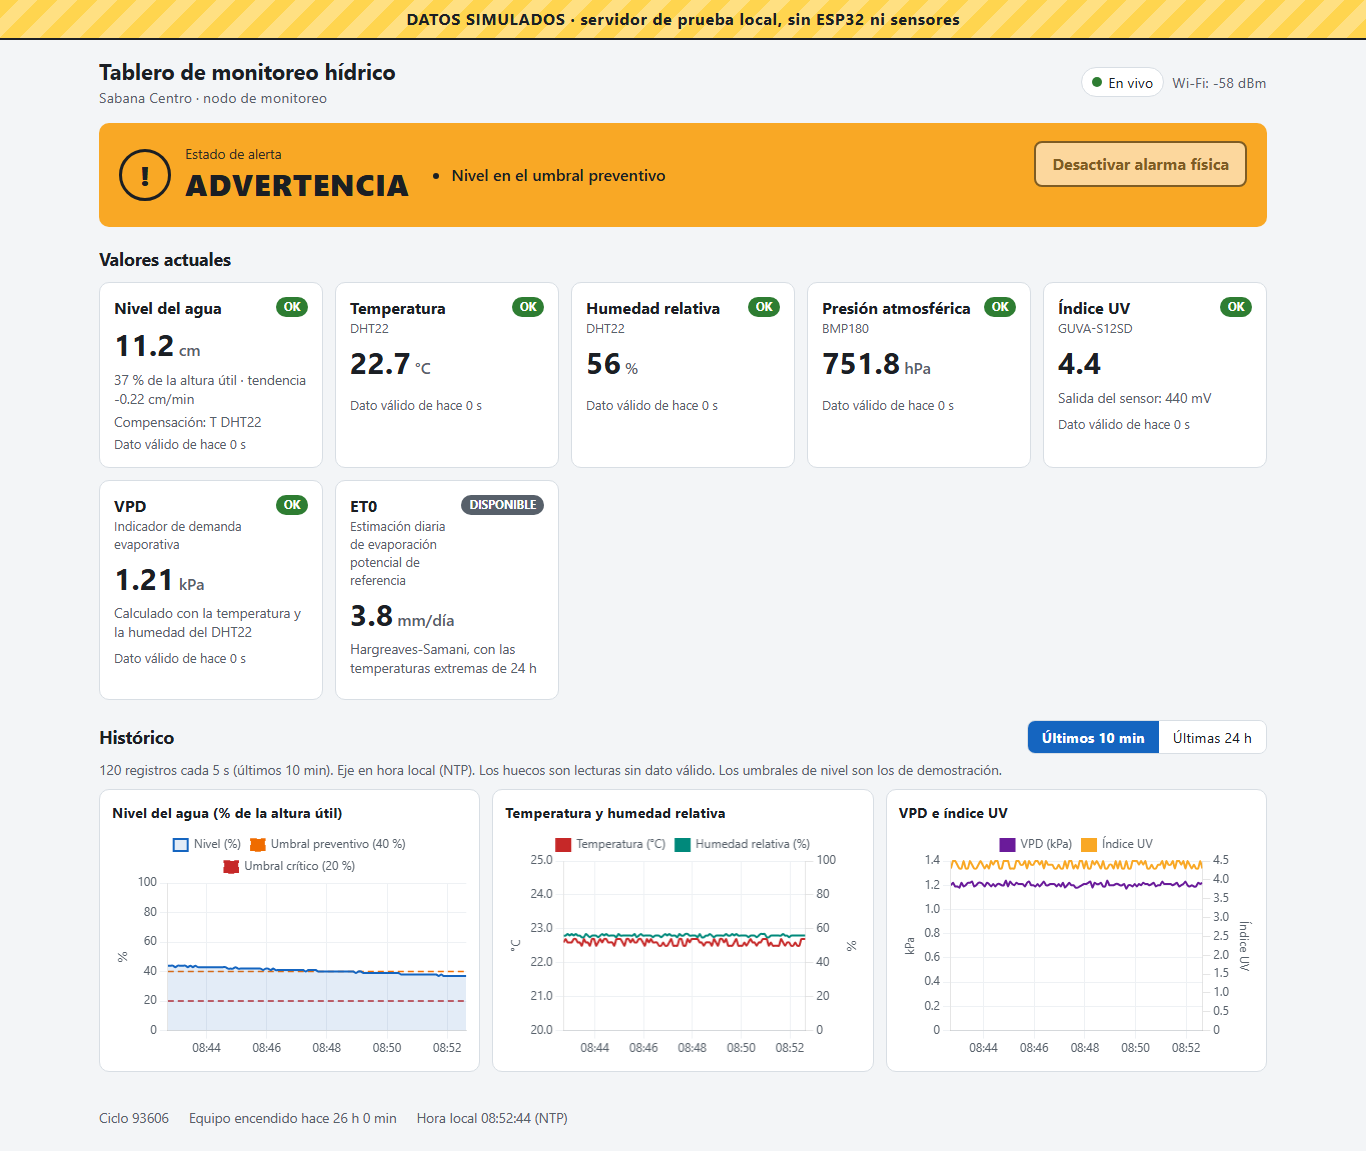
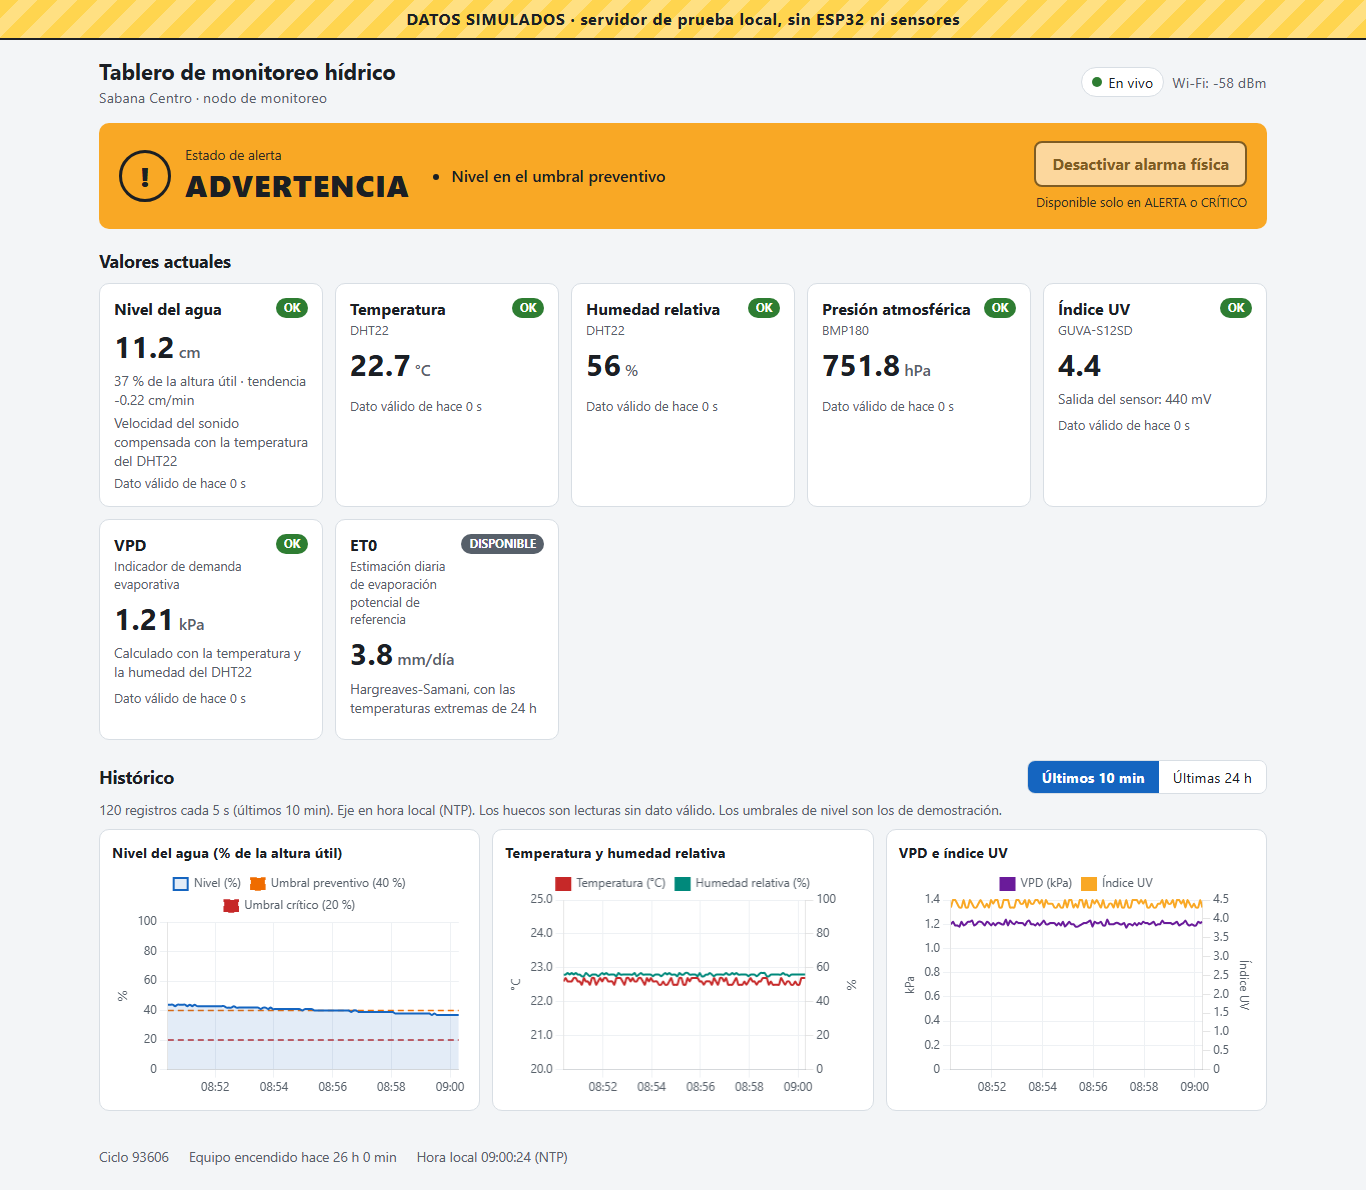
feat(tablero): texto de la compensación, nota del botón de desactivar y capturas actualizadas

diff --git a/firmware/data/tablero.js b/firmware/data/tablero.js
@@ -44,6 +44,12 @@
     uv_alto: 'Índice UV alto',
   };
   const ESTADOS_DESACTIVABLES = ['ALERTA', 'CRITICO'];
+  // Texto de la fuente de compensación de la velocidad del sonido (sensores.cpp).
+  const TEXTO_COMPENSACION = {
+    'T DHT22': 'Velocidad del sonido compensada con la temperatura del DHT22',
+    'T BMP180': 'Velocidad del sonido compensada con la temperatura del BMP180',
+    'compensación por defecto': 'Velocidad del sonido con 20 °C por defecto (sin temperatura medida)',
+  };
 
   // -------------------------------------------------------------------------
   // Utilidades
@@ -92,7 +98,7 @@
       valor: (j) => numero(j.nivel.cm, 1),
       detalle: (j) => numero(j.nivel.pct, 0) + ' % de la altura útil · tendencia ' +
         (j.nivel.tendencia_cm_min === null ? 'no disponible' : numero(j.nivel.tendencia_cm_min, 2) + ' cm/min'),
-      extra: (j) => 'Compensación: ' + j.nivel.compensacion,
+      extra: (j) => TEXTO_COMPENSACION[j.nivel.compensacion] || 'Compensación: ' + j.nivel.compensacion,
     },
     {
       id: 'temperatura', titulo: 'Temperatura', subtitulo: 'DHT22', unidad: '°C', sensor: (j) => j.dht22,
@@ -205,8 +211,10 @@
     }
 
     $('alarma-desactivada').hidden = !j.alarma_desactivada;
-    const desactivable = ESTADOS_DESACTIVABLES.includes(j.estado) && !j.alarma_desactivada;
+    const estadoConAlarma = ESTADOS_DESACTIVABLES.includes(j.estado);
+    const desactivable = estadoConAlarma && !j.alarma_desactivada;
     $('boton-desactivar').disabled = !desactivable || orden !== null;
+    $('boton-nota').hidden = estadoConAlarma;
 
     if (orden) {
       if (j.alarma_desactivada) {

diff --git a/firmware/data/index.html b/firmware/data/index.html
@@ -50,6 +50,7 @@
     <div class="estado__alarma">
       <span id="alarma-desactivada" class="etiqueta-desactivada" hidden>Alarma física desactivada</span>
       <button id="boton-desactivar" class="boton-desactivar" type="button" disabled>Desactivar alarma física</button>
+      <p id="boton-nota" class="boton-nota">Disponible solo en ALERTA o CRÍTICO</p>
       <p id="orden-mensaje" class="orden-mensaje" role="status"></p>
     </div>
   </section>

diff --git a/firmware/data/estilo.css b/firmware/data/estilo.css
@@ -139,6 +139,8 @@ main {
   background: #ffffff; color: var(--texto); font-weight: 700; font-size: 0.85rem;
 }
 .orden-mensaje { font-size: 0.85rem; min-height: 1.2em; max-width: 280px; }
+.boton-nota { font-size: 0.8rem; opacity: 0.9; }
+.orden-mensaje:empty { display: none; }
 
 .boton-desactivar, .boton-secundario {
   font: inherit; font-weight: 700;

diff --git a/tools/tablero_simulado/servidor_simulado.py b/tools/tablero_simulado/servidor_simulado.py
@@ -57,7 +57,7 @@ ESCENARIOS = {
                         t=22.6, hr=56, p=751.8, uv=4.4, sensores={}),
     "ALERTA": dict(estado="ALERTA", causas=["nivel_preventivo", "descenso", "vpd_alto", "temperatura_alta", "uv_alto"],
                    pct=31, tendencia=-1.32, t=30.8, hr=38, p=750.9, uv=7.4, sensores={}),
-    "CRITICO": dict(estado="CRITICO", causas=["nivel_critico", "nivel_preventivo", "descenso", "vpd_alto"],
+    "CRITICO": dict(estado="CRITICO", causas=["nivel_critico", "descenso", "vpd_alto"],
                     pct=16, tendencia=-1.12, t=28.7, hr=35, p=750.6, uv=5.2, sensores={"guva": "VIEJO"}),
     "FALLA_NIVEL": dict(estado="FALLA NIVEL", causas=[], pct=None, tendencia=None, t=20.1, hr=61,
                         p=752.0, uv=2.6, sensores={"nivel": "FALLA"}),
